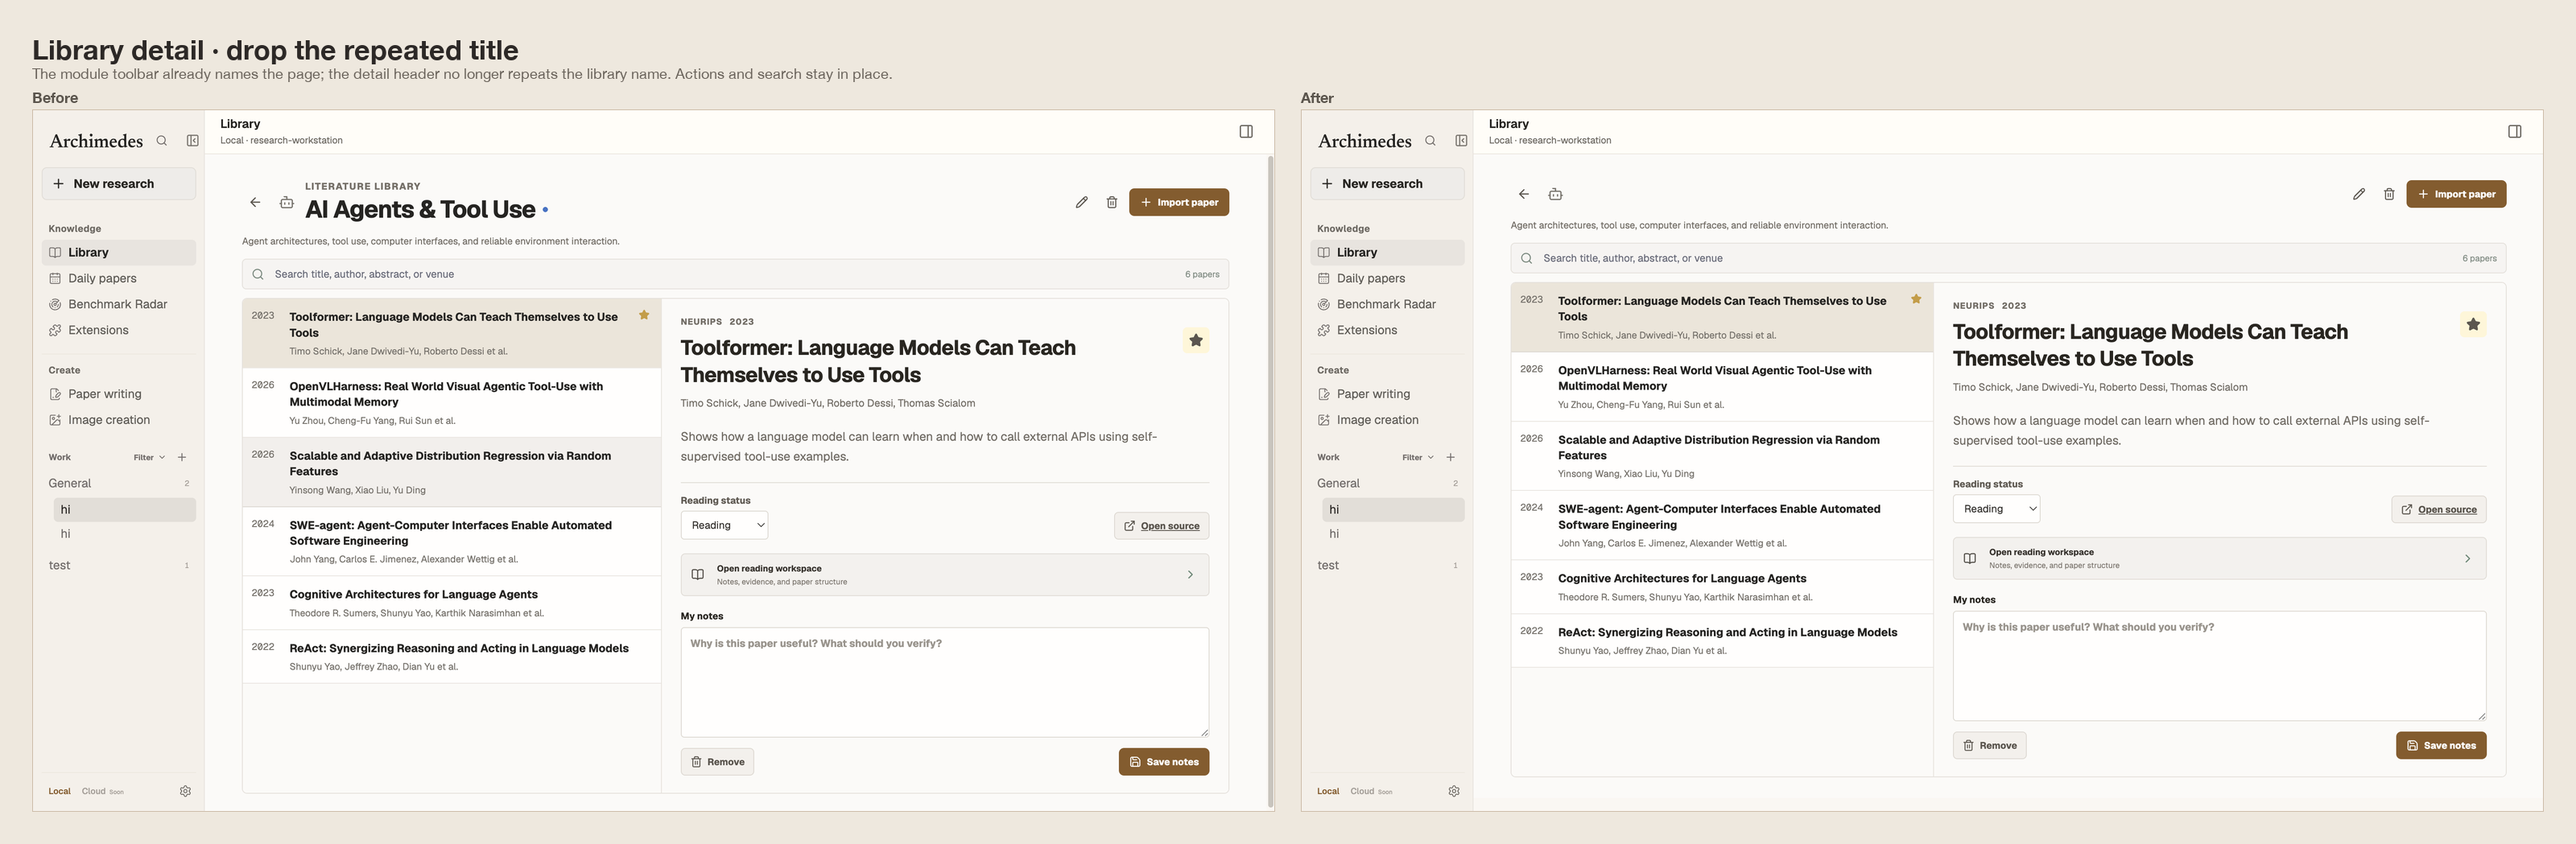
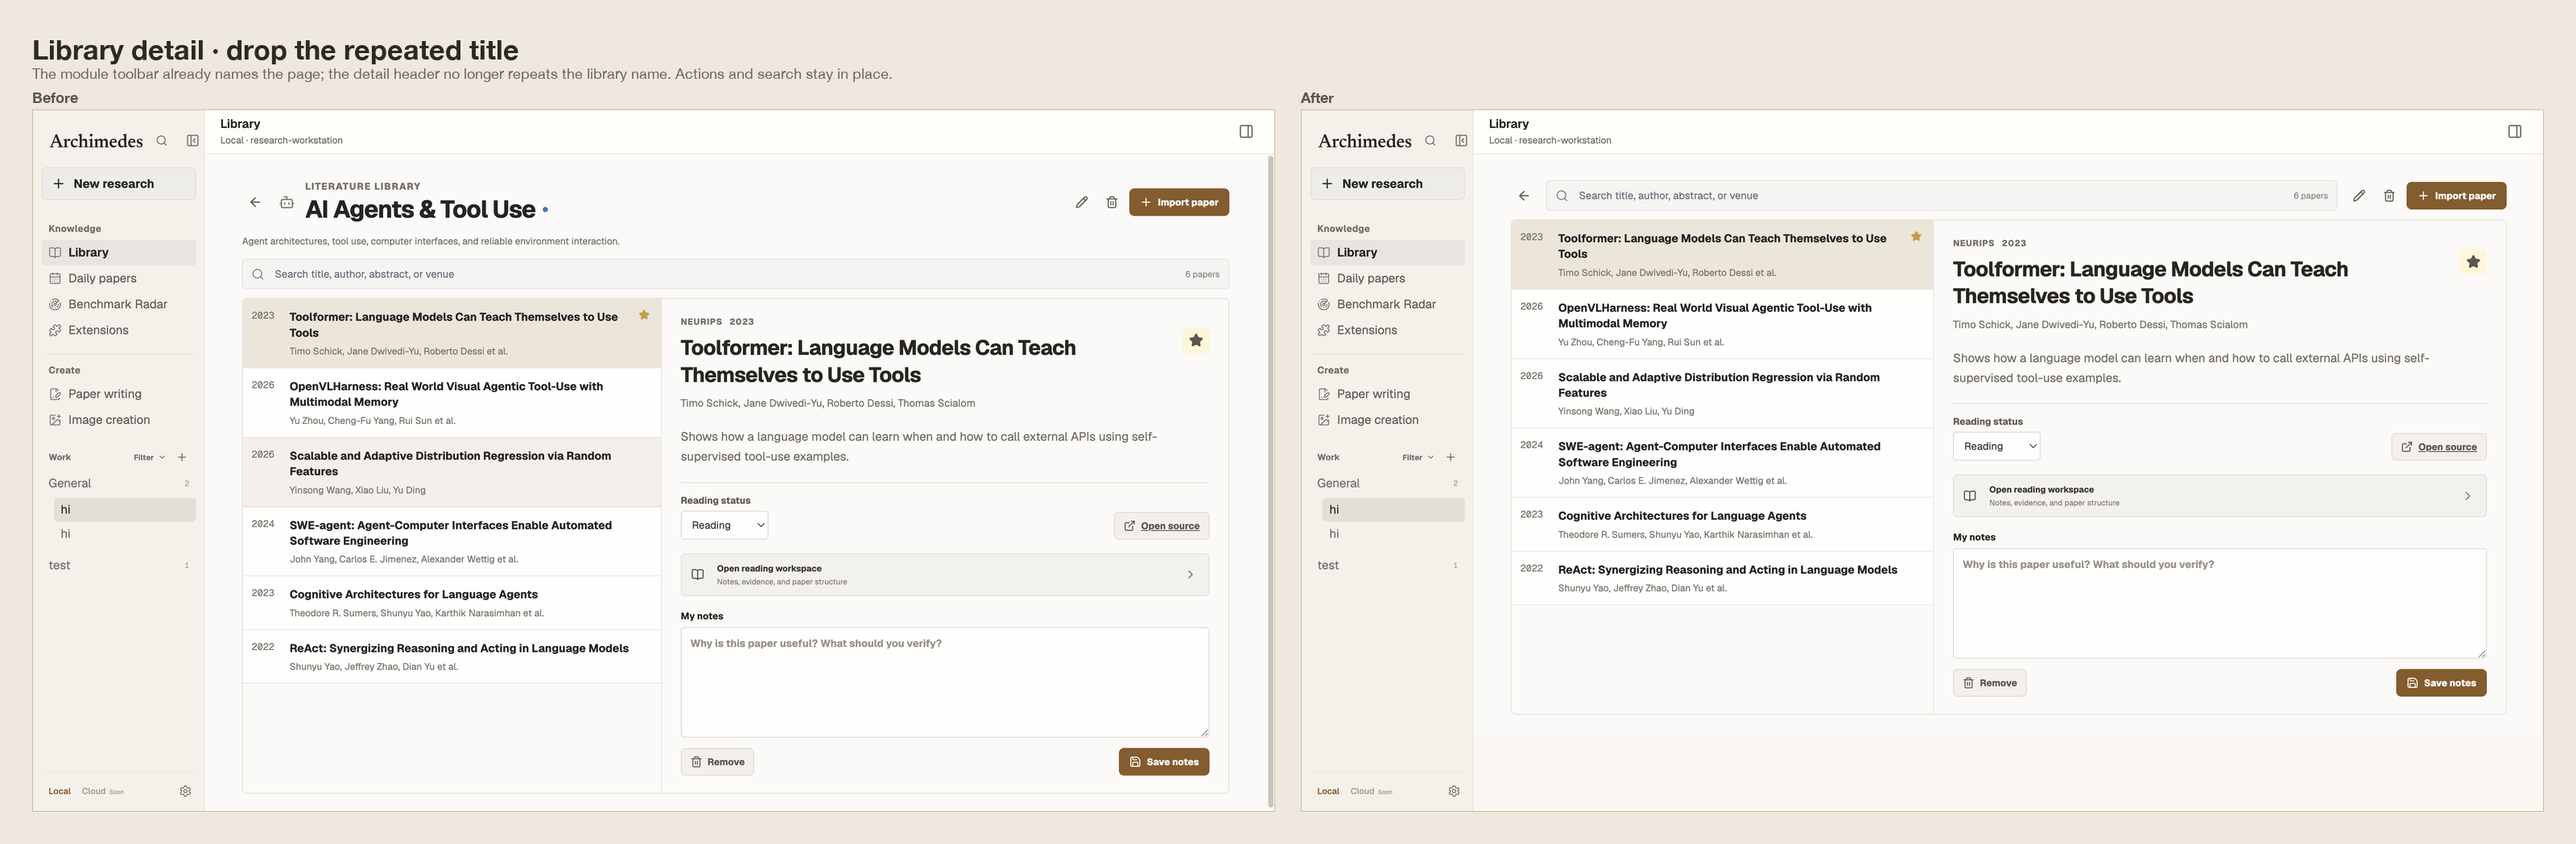
fix(ui): merge library detail controls into one row

diff --git a/src/styles.css b/src/styles.css
@@ -760,7 +760,7 @@ button:focus-visible, input:focus-visible, textarea:focus-visible { outline: 2px
 .library-page { min-height: 100%; padding: 30px clamp(22px, 3vw, 44px) 42px; }
 .library-page-header { display: flex; align-items: flex-start; justify-content: space-between; gap: 24px; padding-bottom: 22px; border-bottom: 1px solid #dce5de; }.library-page-header h1, .library-detail-header h1 { margin: 7px 0 0; color: #18271d; font-size: 27px; letter-spacing: 0; }.library-page-header p { max-width: 620px; margin: 9px 0 0; color: #718077; font-size: 12px; line-height: 1.55; }
 .library-card-grid { display: grid; grid-template-columns: repeat(2, minmax(0, 1fr)); gap: 10px; padding-top: 19px; }.library-card { display: grid; grid-template-columns: 22px minmax(0, 1fr); gap: 12px; min-height: 142px; padding: 16px; color: #26372c; background: #fff; border: 1px solid #d8e2da; border-radius: 6px; text-align: left; box-shadow: 0 3px 9px rgba(24, 45, 31, .035); }.library-card:hover { border-color: #9eb7a6; background: #fbfdfb; }.library-glyph { display: grid; width: 22px; height: 22px; flex: 0 0 auto; place-items: center; color: #6f6f69; }.library-color-dot { display: inline-block; width: 6px; height: 6px; flex: 0 0 auto; border-radius: 50%; }.library-card-copy { min-width: 0; }.library-card-title { display: flex; min-width: 0; align-items: center; gap: 7px; }.library-card-copy strong { display: block; min-width: 0; overflow: hidden; color: #203127; font-size: 14px; text-overflow: ellipsis; white-space: nowrap; }.library-card-copy small { display: -webkit-box; margin-top: 8px; overflow: hidden; color: #748179; font-size: 11px; line-height: 1.55; -webkit-box-orient: vertical; -webkit-line-clamp: 3; }.library-card-meta { display: flex; grid-column: 2; align-items: center; gap: 5px; color: #7e8b82; font-size: 11px; }.library-card-meta b { color: #2f755c; font-size: 12px; }.library-card-meta svg { margin-left: auto; }
-.library-detail-page { display: flex; min-height: 0; flex-direction: column; padding-bottom: 24px; }.library-detail-header { display: flex; align-items: center; gap: 10px; }.library-detail-header h1 { margin-top: 3px; font-size: 20px; }.library-header-actions { display: flex; align-items: center; gap: 5px; margin-left: auto; }.library-description { margin: 12px 0; color: #718078; font-size: 11px; line-height: 1.5; }.library-toolbar { display: grid; grid-template-columns: 18px minmax(0, 1fr) auto; align-items: center; gap: 7px; padding: 8px 10px; background: #fff; border: 1px solid #d5e0d8; border-radius: 5px; }.library-toolbar svg { color: #7a8b80; }.library-toolbar input { min-width: 0; color: #26372c; background: transparent; border: 0; outline: 0; font-size: 12px; }.library-toolbar span { color: #839087; font-size: 10px; }
+.library-detail-page { display: flex; min-height: 0; flex-direction: column; padding-bottom: 24px; }.library-detail-header { display: flex; align-items: center; gap: 10px; }.library-detail-header .library-toolbar { flex: 1; min-width: 0; }.library-header-actions { display: flex; align-items: center; gap: 5px; flex: 0 0 auto; }.library-description { margin: 12px 0; color: #718078; font-size: 11px; line-height: 1.5; }.library-toolbar { display: grid; grid-template-columns: 18px minmax(0, 1fr) auto; align-items: center; gap: 7px; padding: 8px 10px; background: #fff; border: 1px solid #d5e0d8; border-radius: 5px; }.library-toolbar svg { color: #7a8b80; }.library-toolbar input { min-width: 0; color: #26372c; background: transparent; border: 0; outline: 0; font-size: 12px; }.library-toolbar span { color: #839087; font-size: 10px; }
 .library-split { display: grid; min-height: 480px; flex: 1; grid-template-columns: minmax(260px, .85fr) minmax(320px, 1.15fr); margin-top: 10px; overflow: hidden; background: #fff; border: 1px solid #d9e3dc; border-radius: 6px; }.library-paper-list { min-width: 0; overflow: auto; border-right: 1px solid #dce5de; }.library-paper-row { display: grid; grid-template-columns: 36px minmax(0, 1fr) 16px; align-items: start; width: 100%; gap: 8px; padding: 12px 10px; color: #33433a; background: #fff; border-bottom: 1px solid #e5ebe7; text-align: left; }.library-paper-row:hover { background: #f4f8f5; }.library-paper-row.selected { background: #eaf3ed; }.library-paper-row > span:nth-child(2) { min-width: 0; }.library-paper-row strong { display: block; overflow: hidden; font-size: 11px; line-height: 1.4; text-overflow: ellipsis; }.library-paper-row small { display: block; margin-top: 5px; overflow: hidden; color: #839087; font-size: 9px; text-overflow: ellipsis; white-space: nowrap; }.library-paper-row > svg { color: #ca9b35; }.paper-row-year { color: #728177; font: 10px "SFMono-Regular", Consolas, monospace; }
 .paper-inspector { min-width: 0; padding: 20px 22px; overflow: auto; }.paper-inspector.empty { display: grid; place-content: center; justify-items: center; gap: 8px; color: #89968d; font-size: 11px; }.paper-inspector-kicker { display: flex; gap: 8px; color: #668071; font-size: 9px; font-weight: 750; letter-spacing: .06em; text-transform: uppercase; }.paper-inspector-title { display: flex; align-items: flex-start; gap: 10px; }.paper-inspector-title h2 { flex: 1; margin: 8px 0; color: #1e3025; font-size: 18px; line-height: 1.35; }.icon-button.starred { color: #b57d14; background: #fff5d6; }.paper-authors { margin: 0; color: #728078; font-size: 10px; line-height: 1.55; }.paper-abstract { margin: 18px 0; color: #526158; font-size: 11px; line-height: 1.7; }.paper-record-row { display: flex; align-items: flex-end; justify-content: space-between; gap: 12px; padding-top: 13px; border-top: 1px solid #e0e7e2; }.paper-record-row label, .paper-notes { color: #64736a; font-size: 10px; font-weight: 700; }.paper-record-row select, .daily-controls select { display: block; margin-top: 5px; padding: 7px 26px 7px 8px; color: #33433a; background: #fff; border: 1px solid #d3ddd6; border-radius: 4px; font-size: 11px; }.paper-notes { display: grid; gap: 6px; margin-top: 16px; }.paper-notes textarea, .workspace-modal textarea { width: 100%; padding: 9px 10px; resize: vertical; color: #2c3c32; background: #fff; border: 1px solid #d1dcd4; border-radius: 4px; font-size: 11px; line-height: 1.5; }.paper-inspector-actions { display: flex; justify-content: space-between; margin-top: 12px; }.danger-text { color: #a84943; }
 .paper-reader-launch { display: grid; width: 100%; grid-template-columns: 22px minmax(0, 1fr) 18px; align-items: center; gap: 8px; margin-top: 16px; padding: 10px 11px; color: #2f6652; background: #edf5f0; border: 1px solid #cce0d2; border-radius: 5px; text-align: left; }.paper-reader-launch:hover { color: #1f513f; background: #e3f0e8; border-color: #aacbb5; }.paper-reader-launch > span { min-width: 0; }.paper-reader-launch strong, .paper-reader-launch small { display: block; overflow: hidden; text-overflow: ellipsis; white-space: nowrap; }.paper-reader-launch strong { font-size: 10px; }.paper-reader-launch small { margin-top: 3px; color: #70877a; font-size: 9px; }.paper-reader-launch > svg:last-child { color: #6a8b78; }

diff --git a/src/LibraryView.tsx b/src/LibraryView.tsx
@@ -301,15 +301,13 @@ export default function LibraryView({ bridge, mode, initialDailyMode, workspace 
   return <section className="library-page library-detail-page">
     <header className="library-detail-header">
       <button className="icon-button" onClick={() => setSelectedLibraryId(null)} title="All libraries"><ArrowLeft size={17} /></button>
-      <LibraryGlyph name={selectedLibrary.name} size={19} />
+      <div className="library-toolbar"><Search size={15} /><input value={localQuery} onChange={(event) => setLocalQuery(event.target.value)} placeholder="Search title, author, abstract, or venue" /><span>{papers.length} papers</span></div>
       <div className="library-header-actions">
         <button className="icon-button" onClick={() => setLibraryEditor(selectedLibrary)} title="Edit library"><Pencil size={15} /></button>
         <button className="icon-button danger" onClick={() => void deleteLibrary()} title="Delete library"><Trash2 size={15} /></button>
         <button className="primary-button" onClick={() => setImportOpen(true)}><Plus size={15} />Import paper</button>
       </div>
     </header>
-    <div className="library-description">{selectedLibrary.description}</div>
-    <div className="library-toolbar"><Search size={15} /><input value={localQuery} onChange={(event) => setLocalQuery(event.target.value)} placeholder="Search title, author, abstract, or venue" /><span>{papers.length} papers</span></div>
     {error && <div className="library-error">{error}</div>}
     <div className="library-split">
       <div className="library-paper-list">
